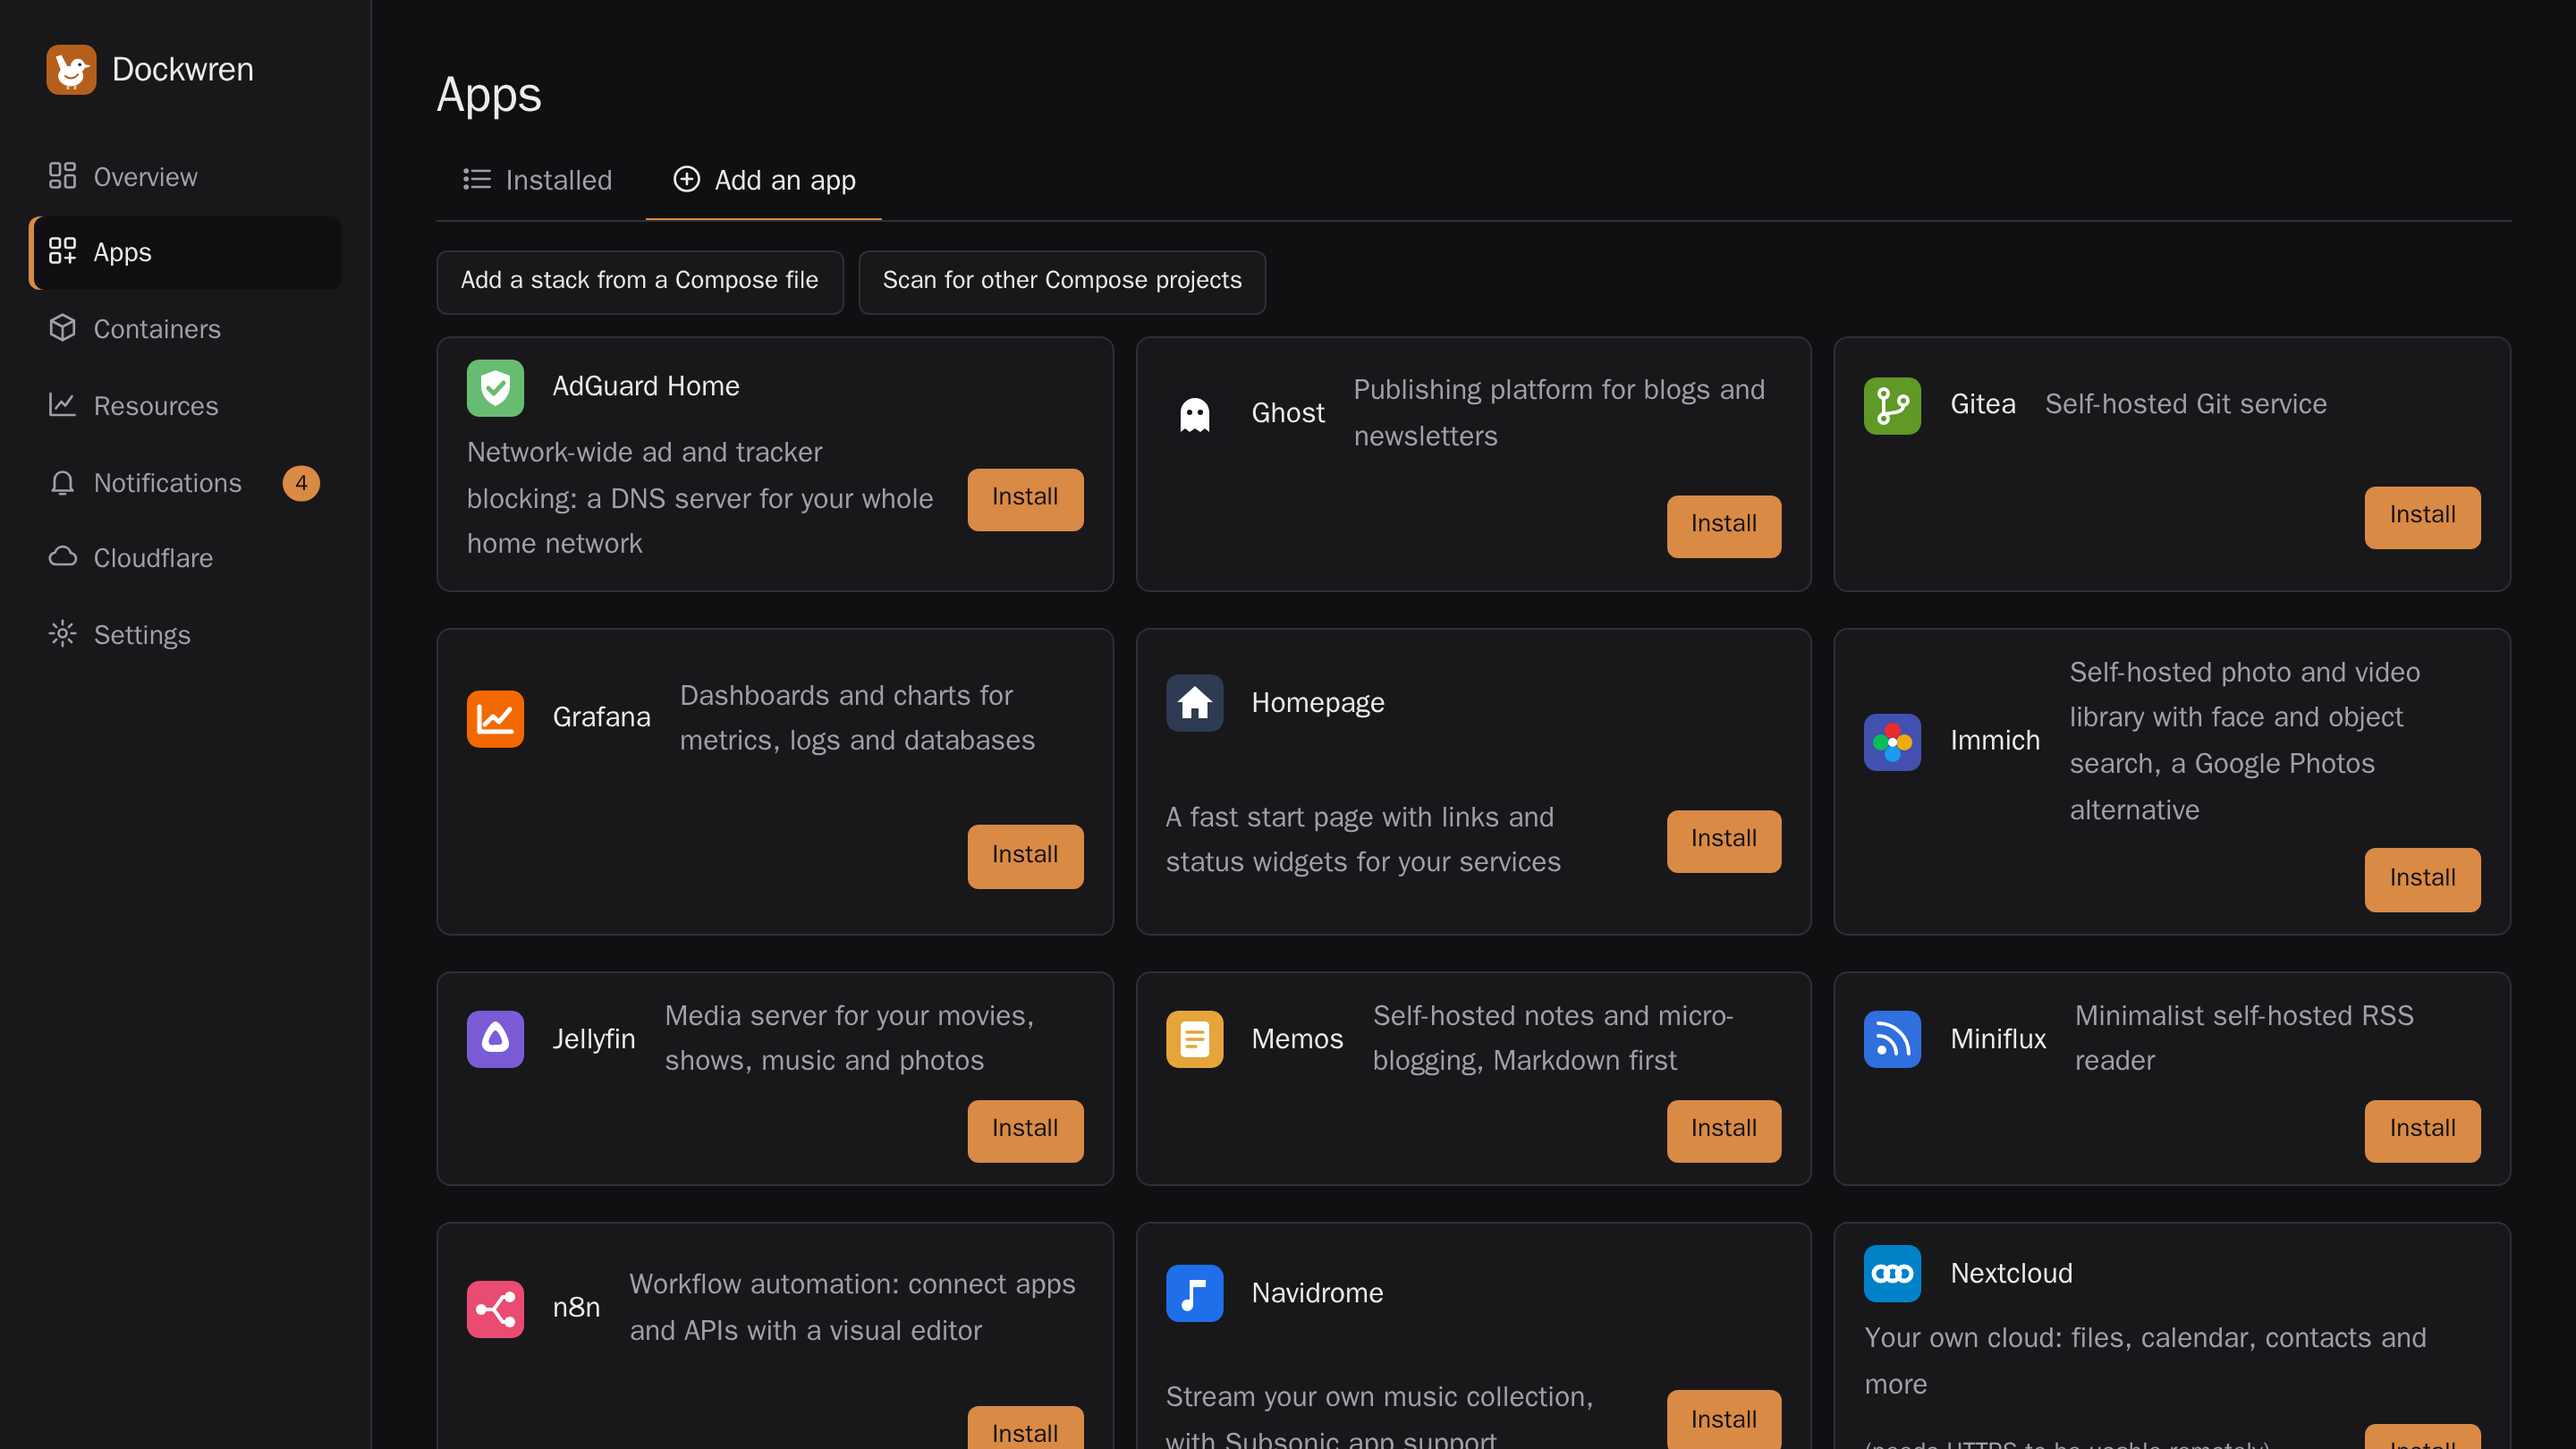
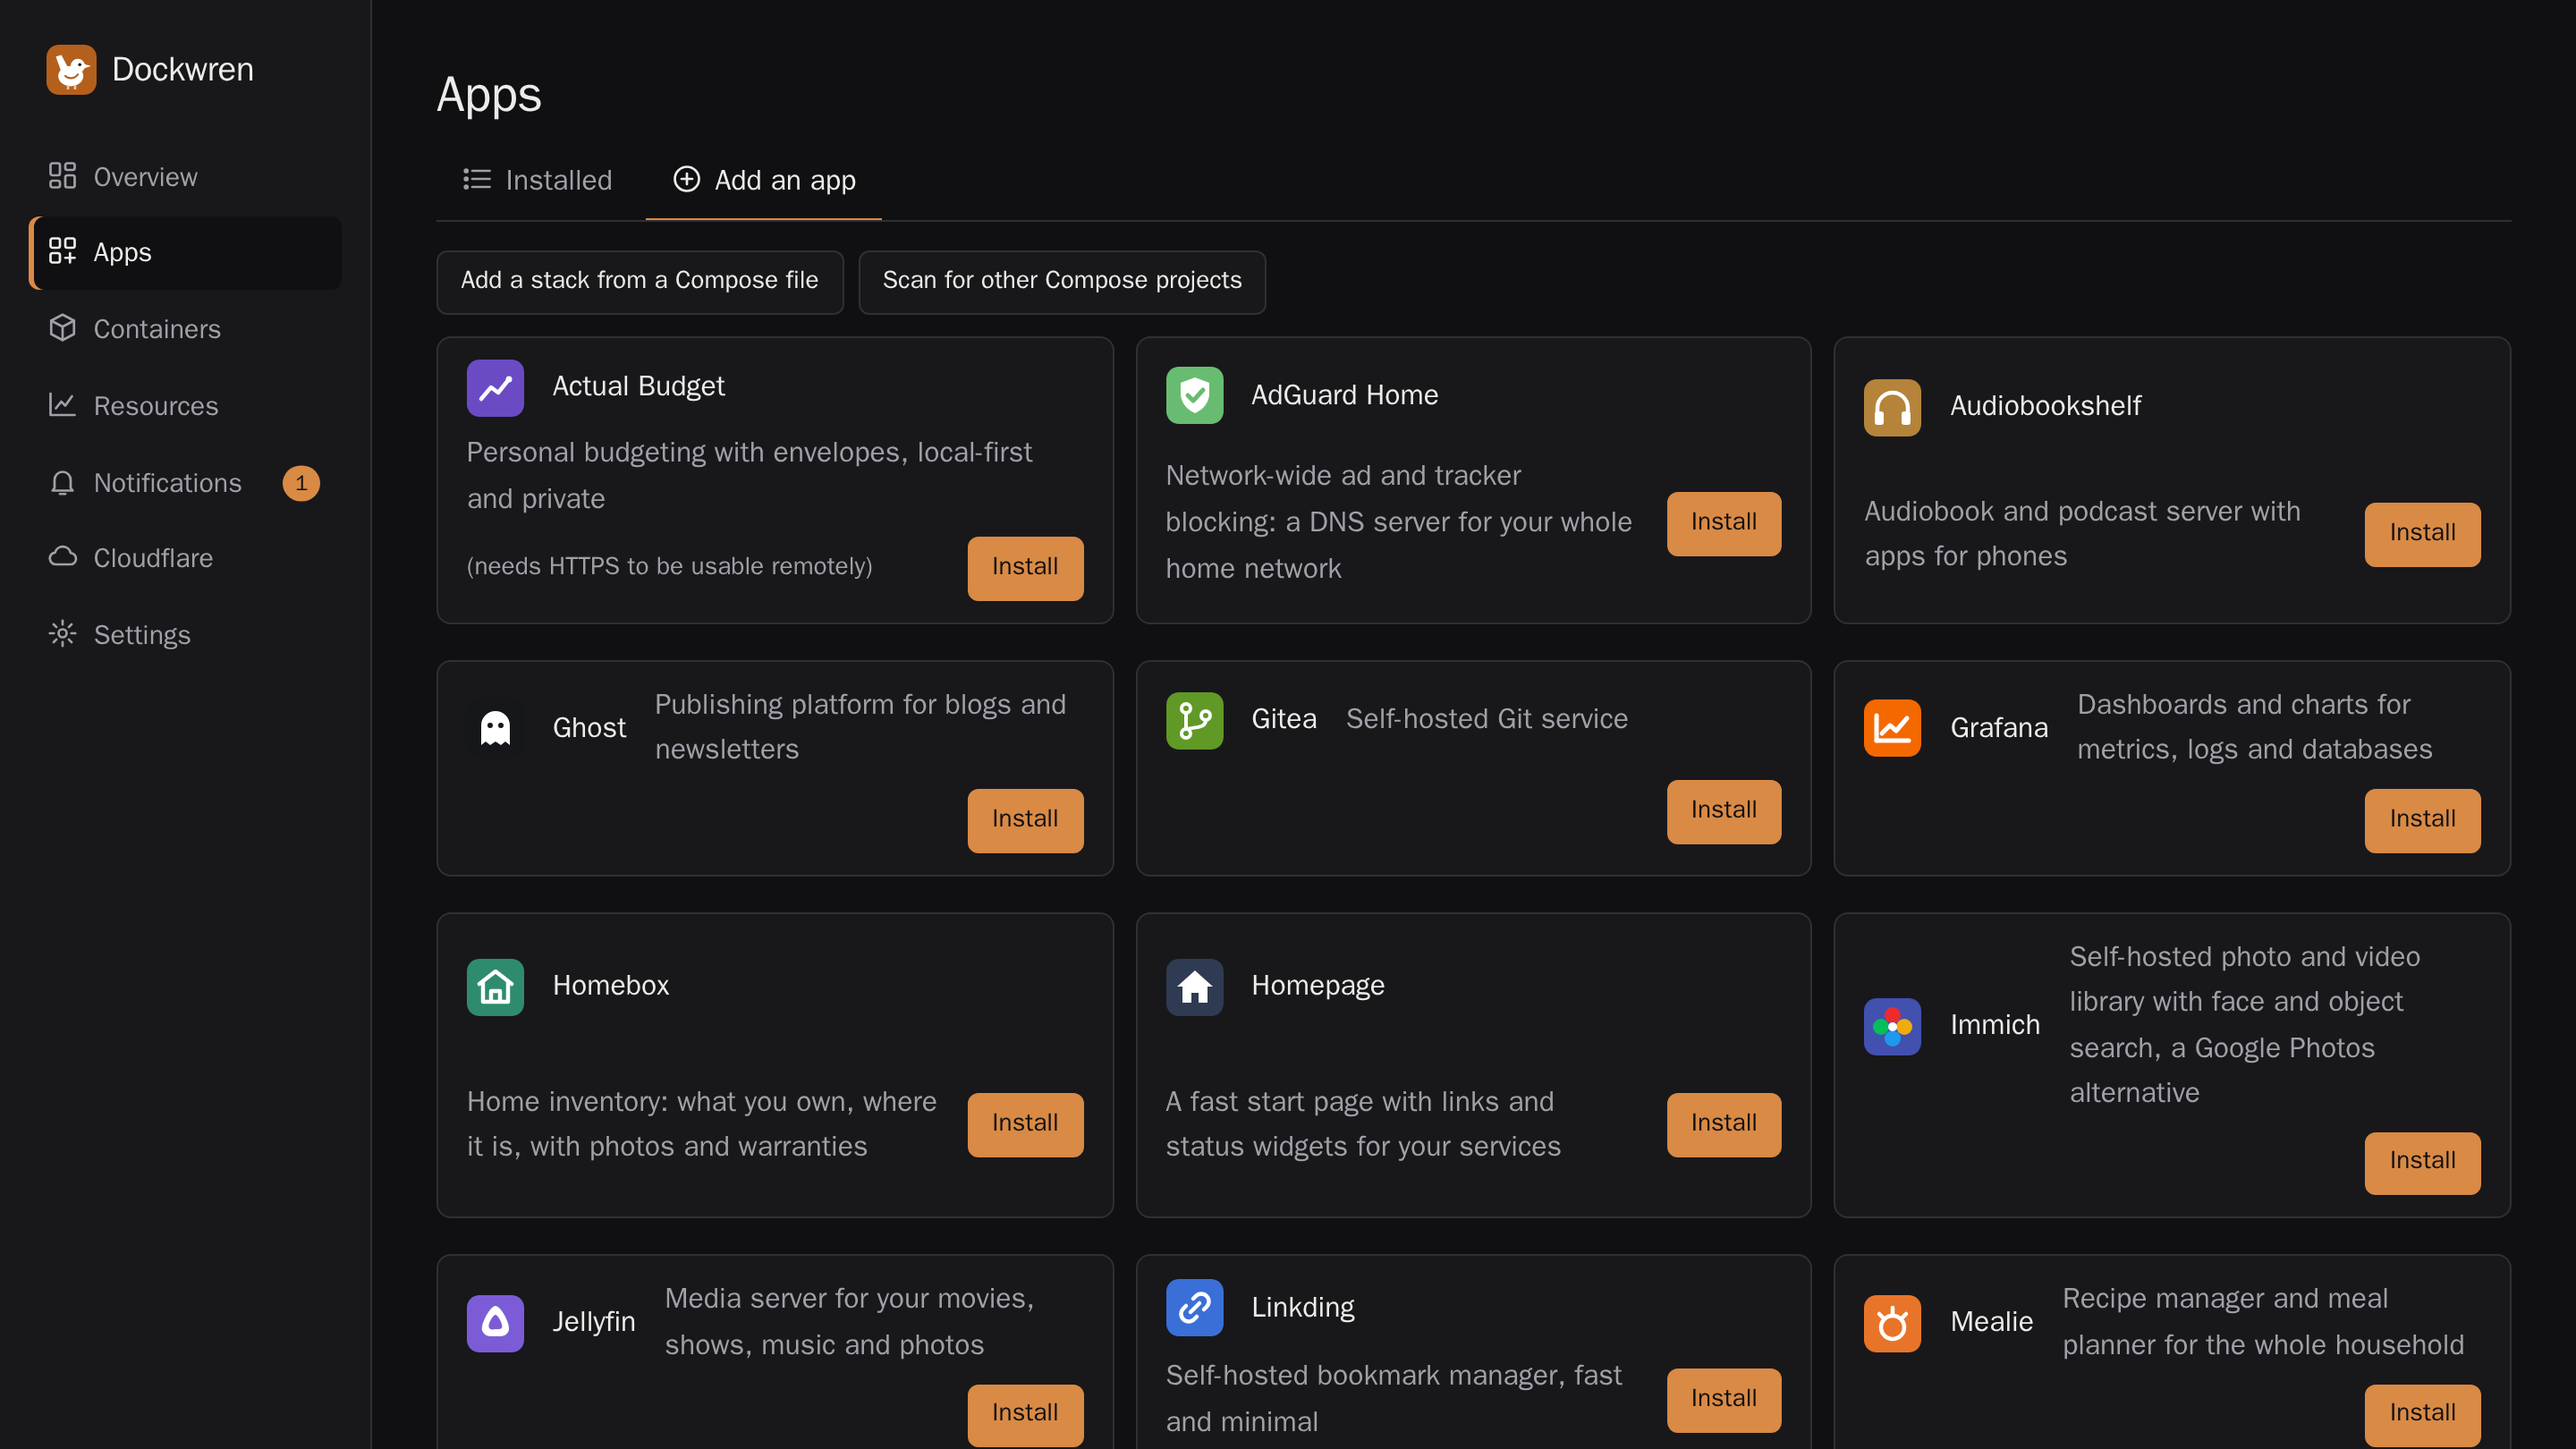
Screenshots: Apps catalog shows the five new apps

diff --git a/BACKLOG.md b/BACKLOG.md
@@ -4,7 +4,7 @@ Open items only, one line each, with the date it was last verified open. Deliver
 (delete the line in the SAME commit that delivers it; grep this file for the feature's keywords first).
 
 ## Open
-- More catalog templates (open-ended; 28 in `apps/` as of 2026-11-20: added actual-budget, audiobookshelf, homebox, linkding, mealie, each tested on a real VPS incl. backup/restore, NOT yet released). Later ideas: wallos, lubelogger, changedetection.io (all have tar). Apps-page screenshots predate these 5; reshoot at a later screenshot session.
+- More catalog templates (open-ended; 28 in `apps/` as of 2026-11-20: added actual-budget, audiobookshelf, homebox, linkding, mealie, each tested on a real VPS incl. backup/restore, NOT yet released). Later ideas: wallos, lubelogger, changedetection.io (all have tar). Apps-page screenshots reshot 2026-11-20 (catalog shows all 27).
 - Security: PHP advisory recheck (PHP2Shell fixed in 8.5.12/8.4.27/8.3.36/8.2.35; all pinned apps patched, rechecked 2026-11-19 (again 17:00, wordpress:7.1.5-php8.3-apache rebuilt 16:06 but still php 8.3.36): php 8.5.13 etc. exist on Docker Hub but app images (wordpress 7.1.5 = php 8.3.36, nextcloud 35.0.3 = 8.5.12, roundcube 1.7.6 = 8.4.27) not rebuilt yet; recheck at next release).
 - Security: WordPress template has 2 fixable criticals needing upstream rebuilds (rechecked 2026-11-19 17:00 by running the image: wordpress 7.1.5 out, still apache 2.4.69 (fix 2.4.71); mariadb 11.8.10 not yet, Go stdlib 1.24.6 in mariadb:11.8.9, fix 1.24.13). Recheck both tags at each release.
 - Off-host: not tested on AWS (B2 tested). Low value, keep unless asked.
